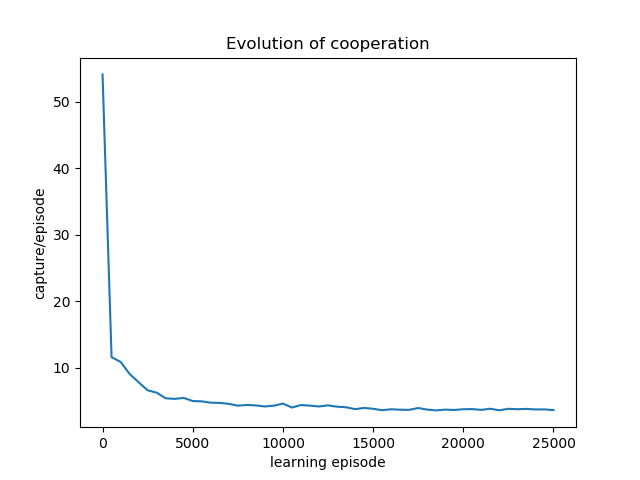
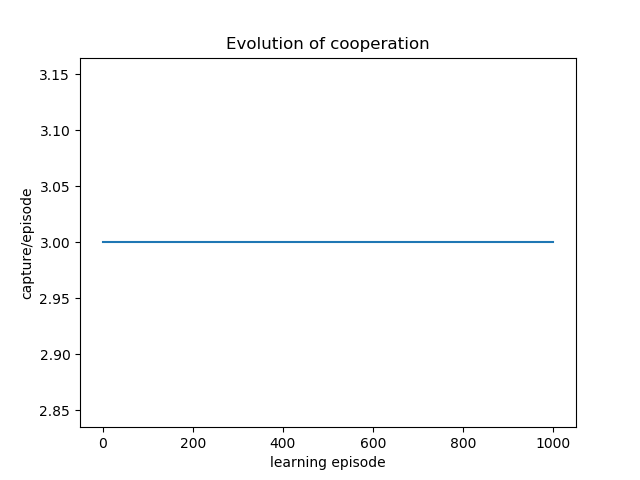
play and test mode for independant learner

diff --git a/IL_main.py b/IL_main.py
@@ -1,7 +1,13 @@
 import argparse
+import os
 import sys
 import json
 import copy
+from statistics import mean
+import numpy as np
+import matplotlib.pyplot as plt
+import random
+from multiprocessing import Process, Manager, Lock
 
 from IL_agent import ILAgent
 from game import Game
@@ -53,24 +59,187 @@ test      Test the performance of the learning
         verbose = args.verbose
         learn_mode(n_episode, grid, directory, verbose)
 
+    def play(self):
+        # manage the arguments
+        parser = argparse.ArgumentParser(
+            description='Play the game with a learned policy')
+        parser.add_argument('directory', help="directory of the rules file")
+        parser.add_argument('-g', help="grid size", default=4, type=int)
+        
+        args = parser.parse_args(sys.argv[2:])
+        print('Running play mode, grid={}, directory={}'.format(args.g, args.directory))
+
+        # run the play mode with the arguments
+        grid = (args.g, args.g)
+        file = "IL_{}_{}_grid.json".format(args.g, args.g)
+        path = "{}/{}".format(args.directory, file)
+        
+        # check if there is a good rules file, if there is let's play
+        if file in os.listdir("./{}".format(args.directory)):
+            play_mode(grid, path)
+        else:
+            print("no rule file in this directory for this grid size")
+
+    def test(self):
+        parser = argparse.ArgumentParser(
+            description='Test the performance of the learning')
+        parser.add_argument('-e', help="number of episode", default=100000, type=int)
+        parser.add_argument('-r', help="number of run", default=25, type=int)
+        parser.add_argument('-g', help="grid size", default=4, type=int)
+        parser.add_argument('-v', '--verbose', action='store_true')
+        
+        args = parser.parse_args(sys.argv[2:])
+        print('Running test mode, grid={}, run={}, episode{}'.format(args.g, 
+                                                                     args.r,
+                                                                     args.e))
+
+        # run the test mode with the arguments
+        grid = (args.g, args.g)
+        n_episode = args.e 
+        n_run = args.r
+        verbose = args.verbose
+        test_mode(n_episode, n_run, grid, verbose)
+
         
 
 def learn_mode(n_episode, grid, directory, verbose=False):
-
     # make n episodes
     ncol, nrow = grid
-    Q_table_1, Q_table_2 = run_episodes(n_episode, grid, verbose)
+    Q_table_0, Q_table_1 = run_episodes(ILAgent.get_init_Q_t(n_actions[0], ncol, nrow), ILAgent.get_init_Q_t(n_actions[1], ncol, nrow), n_episode, grid, verbose)
     # save Q tables
     file_name = "IL_{}_{}_grid".format(ncol, nrow)
-    save_tables(Q_table_1, Q_table_2, directory, file_name)
+    save_tables(Q_table_0, Q_table_1, directory, file_name)
     
+
+def play_mode(grid, path):
+    ncol, nrow = grid
+
+    # create a game
+    game = Game({0:(3,0), 1:(0,3)}, ncol, nrow)
+    game.print()
+
+    # load Q_tables
+    Q_table_0, Q_table_1 = load_tables(path)
+
+    # create predators and prey
+    predators = [ILAgent(0, n_actions[0], ncol, nrow, Q_table_0), ILAgent(1, n_actions[1], ncol, nrow, Q_table_1)]
+    prey = Prey(5)
+
+    while True:
+        # get the current state
+        state = state_to_string(copy.copy(game.states))
+
+        # compute the action of the predators
+        j_action = dict()
+        for i, predator in enumerate(predators):
+            j_action[i] = actions_map[predator.get_action_choice(state, 0)]
+
+        # play a episode
+        game.play(j_action)
+
+        # move the prey on a free neighbor cell
+        free_cells = game.get_free_neighbor_cells()
+        action = prey.get_action_choice(free_cells)
+        game.play_prey(action)
+
+        # print grid
+        game.print()
+
+        choice = ""
+
+        while choice != "s" and choice != "n":
+            choice = input("n -> next episode, s -> stop : ")
+            print(choice)
+
+        if choice == "s":
+            break
     
+def test_mode(n_episode, n_run, grid, verbose=False, size_interval=500):
     
-def run_episodes(n_episode, grid, verbose=False, offset=0):
+    def f_run(run_times, initial_states, size_interval, 
+              n_episode, line_to_up, run, lock, verbose):
+        
+        # create a specific context graph and add rules
+        n_actions = {0:5, 1:5}
+    
+        n_interval = int(n_episode/size_interval)
+
+        Q_table_0 = ILAgent.get_init_Q_t(n_actions[0], ncol, nrow)
+        Q_table_1 = ILAgent.get_init_Q_t(n_actions[1], ncol, nrow)
+
+        times = []  # store capture time for each tests in a run
+        time = make_capture_test(Q_table_0, Q_table_1, initial_states, grid, verbose)
+        times.append(time) 
+
+        for i in range(n_interval):
+
+            Q_table_0, Q_table_1 = run_episodes(Q_table_0, Q_table_1, size_interval, grid, verbose, offset=size_interval*i)
+            time = make_capture_test(Q_table_0, Q_table_1, initial_states, grid, verbose)
+            times.append(time)
+
+            if verbose:
+                lock.acquire()
+                for line in range(line_to_up):
+                    sys.stdout.write("\033[F")
+                sys.stdout.write("\033[K")
+                sys.stdout.write("run {} : {} %".format((run+1), ((i+1)/n_interval)*100))
+                for line in range(line_to_up):
+                    print("\r")
+                lock.release()
+
+        run_times.append(times)
+
+
+    # generate 100 random initial game states
+    ncol, nrow = grid
+    all_states = [{0: (i, j), 1: (k, l)}
+                  for i in range(ncol)
+                  for j in range(nrow)
+                  for k in range(ncol)
+                  for l in range(nrow)
+                  if not ((i==k and j==l) or (i==0 and j==0) or (k==0 and l==0))]
+    
+    indexes = [random.randint(0, (len(all_states)-1)) for i in range(100)]
+    initial_states = [all_states[i] for i in indexes]
+
+
+    with Manager() as manager:
+        run_times= manager.list()  # <-- can be shared between processes.
+        processes = []
+        N_PROCESS = 8
+        lock = Lock()
+        for run in range(n_run):
+            p = Process(target=f_run, args=(run_times, initial_states, 
+                                            size_interval, n_episode, 
+                                            (n_run-run), run, lock, verbose))
+            if verbose: 
+                print("run {} : {} %".format((run+1), 0))
+            p.start()
+            processes.append(p)
+        for p in processes:
+            p.join()
+
+
+        # average the results over the runs
+        avg = [float(sum(col))/len(col) for col in zip(*run_times)]
+        episode = np.arange(0, n_episode + size_interval, size_interval).tolist()
+
+
+        plt.plot(episode, avg);
+        plt.xlabel("learning episode")
+        plt.ylabel("capture/episode")
+        plt.title("Evolution of cooperation")
+        plt.savefig('images/plots/IL_{}_{}_grid.png'.format(nrow, ncol))
+
+        data = {"avg": avg, "episode": episode}
+        with open('json/{}_{}_grid.json'.format(nrow, ncol), 'w') as outfile:
+             json.dump(data, outfile)
+
+def run_episodes(Q_table_0, Q_table_1, n_episode, grid, verbose=False, offset=0):
 
     ncol, nrow = grid
     # create predators and prey
-    predators = [ILAgent(0, n_actions[0], ncol, nrow), ILAgent(1, n_actions[1], ncol, nrow)]
+    predators = [ILAgent(0, n_actions[0], ncol, nrow, Q_table_0), ILAgent(1, n_actions[1], ncol, nrow, Q_table_1)]
     prey = Prey(5)
 
     # learning parameters
@@ -103,8 +272,7 @@ def run_episodes(n_episode, grid, verbose=False, offset=0):
             next_state = state_to_string(next_state)
             j_action = {id:inv_map(action) for id, action in j_action.items()}
 
-            # compute and make the rho update
-            rules_id = []
+            # make the q-table update
             for i, predator in enumerate(predators):
                 predator.make_q_update(reward[i], state, j_action[i], next_state, alpha, gamma)
 
@@ -117,23 +285,72 @@ def run_episodes(n_episode, grid, verbose=False, offset=0):
 
     return predators[0].Q_t, predators[1].Q_t
 
+def make_capture_test(Q_table_0, Q_table_1, initial_states, grid, verbose=False):
+    
+    ncol, nrow = grid
+    capture_times = []
+    agents = [ILAgent(0, n_actions[0], ncol, nrow, Q_table_0), ILAgent(1, n_actions[1], ncol, nrow, Q_table_1)]
+    prey = Prey(5)
 
+   
+    capture_times = []
+    for initial_state in initial_states:
+        game = Game(copy.copy(initial_state), ncol, nrow)
+        
+        capture = False
+        capture_time = 0
+        while not capture:
+            state = state_to_string(copy.copy(game.states))
+            j_action = dict()
+            for i, agent in enumerate(agents):
+               j_action[i] = actions_map[agent.get_action_choice(state, 0.2)] # TODO : Why not eps = 0
 
-def save_tables(Q_table_1, Q_table_2, directory, name):
+            _, _, capture = game.play(j_action)
+
+            # move the prey on a free neighbor cell
+            free_cells = game.get_free_neighbor_cells()
+            action = prey.get_action_choice(free_cells)
+            game.play_prey(action)
+
+            capture_time += 1
+
+        capture_times.append(capture_time)
+
+    mean_capture_time = mean(capture_times)
+    
+    return mean_capture_time
+
+def save_tables(Q_table_0, Q_table_1, directory, name):
 
         """
-        saves the Q_tables in json format
+        saves the Q-tables in json format
 
         :param directory: directory where to save
         :param name: save file name
         """
 
         data = dict()
-        data[0] = Q_table_1
-        data[1] = Q_table_2
+        data[0] = Q_table_0
+        data[1] = Q_table_1
         path = "{}/{}.json".format(directory, name)
         with open(path, 'w', encoding='utf-8') as f:
             json.dump(data, f, ensure_ascii=False, indent=4)
+
+def load_tables(path):
+
+        """
+        load the Q-tables from a json file
+
+        :param path: path to the json file
+        """
+
+        with open(path) as f:
+            data = json.load(f)
+
+        Q_table_0 = data["0"]
+        Q_table_1 = data["1"]
+
+        return Q_table_0, Q_table_1
 
 def inv_map(action_to_map):
     for action_id, action in actions_map.items():

diff --git a/IL_agent.py b/IL_agent.py
@@ -3,12 +3,15 @@ import numpy as np
 
 
 class ILAgent:
-    def __init__(self, id, n_action, ncol, nrow):
+    def __init__(self, id, n_action, ncol, nrow, Q_t):
         self.id = id
         self.n_action = n_action
-        self.Q_t = {repr(((x1, y1), (x2, y2))) : [0]*n_action for x1 in range(ncol) for y1 in range(nrow) for x2 in range(nrow) for y2 in range(ncol) if not ((x1==x2 and y1==y2) or (x1==0 and y1==0) or (x2==0 and y2==0)) }
-        # print(len(self.Q_t)*5)   # = 48510 with gridsize 10
-        
+        self.Q_t = Q_t
+
+    @staticmethod
+    def get_init_Q_t(n_action, ncol, nrow):
+        return {repr(((x1, y1), (x2, y2))) : [0]*n_action for x1 in range(ncol) for y1 in range(nrow) for x2 in range(nrow) for y2 in range(ncol) if not ((x1==x2 and y1==y2) or (x1==0 and y1==0) or (x2==0 and y2==0)) }
+
     def get_action_choice(self, state, epsilon):
 
         """

diff --git a/main.py b/main.py
@@ -116,6 +116,7 @@ def learn_mode(n_episode, grid, directory, verbose=False):
     # make n episodes
     graph = run_episodes(n_episode, grid, graph, verbose)
     
+    ncol, nrow = grid
     file_name = "{}_{}_grid".format(ncol, nrow)
     graph.save_rules(directory, file_name)
 
